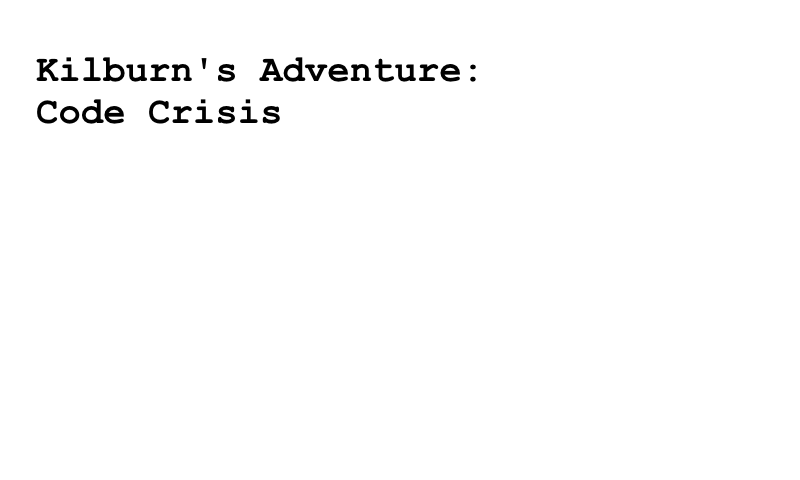
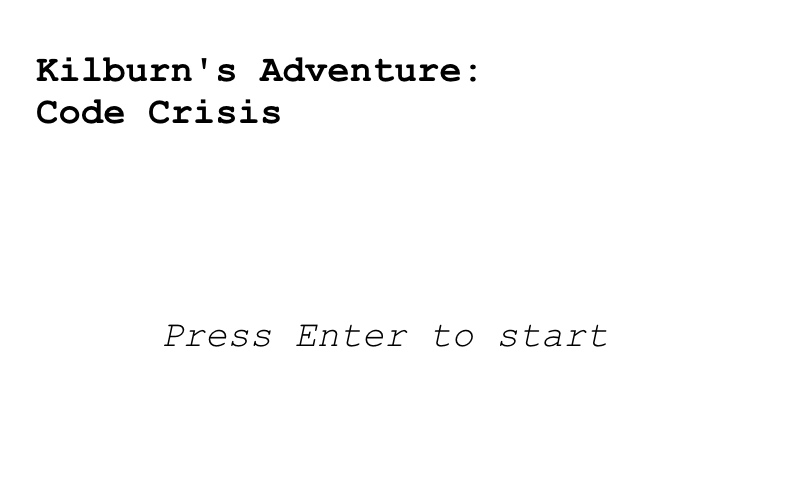
Added statemanager and more gamestate features

diff --git a/core/src/kilburnsadventure/StateManager.java b/core/src/kilburnsadventure/StateManager.java
@@ -1,0 +1,56 @@
+package kilburnsadventure;
+
+import java.util.List;
+import java.util.ArrayList;
+
+import com.badlogic.gdx.graphics.g2d.SpriteBatch;
+
+public class StateManager extends GameObject 
+{
+	private List<GameState> gameStates, toAdd, toRemove;
+	
+	public StateManager(Game game)
+	{
+		super(game);
+		
+		gameStates = new ArrayList<GameState>();
+		toAdd = new ArrayList<GameState>();
+		toRemove = new ArrayList<GameState>();
+	}
+	
+	@Override 
+	public void update()
+	{
+		for (GameState state : gameStates)
+		{
+			if (state.enabled)
+				state.update();
+		}
+		
+		for (GameState state : toAdd)
+			gameStates.add(state);
+		
+		for (GameState state : toRemove)
+			gameStates.remove(state);
+	}
+	
+	@Override
+	public void draw(SpriteBatch spriteBatch)
+	{
+		for (GameState state : gameStates)
+		{
+			if (state.visible)
+				state.draw(spriteBatch);
+		}
+	}
+	
+	public void addState(GameState state)
+	{
+		toAdd.add(state);
+	}
+	
+	public void removeState(GameState state)
+	{
+		toRemove.add(state);
+	}
+}

diff --git a/core/src/kilburnsadventure/Game.java b/core/src/kilburnsadventure/Game.java
@@ -12,8 +12,8 @@ public class Game extends ApplicationAdapter {
 	protected Texture img;
 	
 	protected OrthographicCamera camera;
-	
-	protected GameState currentState;
+
+	protected StateManager stateManager;
 	
 	@Override
 	public void create () 
@@ -23,14 +23,17 @@ public class Game extends ApplicationAdapter {
 		
 		spriteBatch = new SpriteBatch();
 		
-		currentState = new MapState(this);
+		stateManager = new StateManager(this);
+		stateManager.addState(new TitleState(this, stateManager));
+		
 		// Create game objects here
 	}
 	
 	public void update()
 	{
 		camera.update();
-		currentState.update();
+		
+		stateManager.update();
 		
 		// Update code goes here
 	}
@@ -39,11 +42,9 @@ public class Game extends ApplicationAdapter {
 	{
 		spriteBatch.setProjectionMatrix(camera.combined);
 		
-		
-		spriteBatch.begin();
-		
+		spriteBatch.begin();		
 		// Draw code goes here
-		currentState.draw(spriteBatch);
+		stateManager.draw(spriteBatch);
 		
 		spriteBatch.end();
 	}

diff --git a/core/src/kilburnsadventure/TitleState.java b/core/src/kilburnsadventure/TitleState.java
@@ -12,9 +12,9 @@ public class TitleState extends GameState
 	private Vector2 balloonPos;
 	private float balloonDirection = -0.25f;
 	
-	public TitleState(Game game)
+	public TitleState(Game game, StateManager manager)
 	{
-		super(game);
+		super(game, manager);
 		titleImage = new Texture("graphics/titlescreen.png");
 		balloonImage = new Texture("graphics/ballon.png");
 		balloonPos = new Vector2(600, 150);
@@ -33,6 +33,11 @@ public class TitleState extends GameState
 	{
 		if (Gdx.input.isKeyPressed(Input.Keys.ESCAPE))
 			Gdx.app.exit();
+		else if (Gdx.input.isKeyPressed(Input.Keys.ENTER))
+		{
+			stateManager.removeState(this);
+			stateManager.addState(new MapState(gameRef, stateManager, 1));
+		}
 		
 		balloonPos.y += balloonDirection;
 		if (balloonPos.y < 125 || balloonPos.y > 175)

diff --git a/core/src/kilburnsadventure/GameState.java b/core/src/kilburnsadventure/GameState.java
@@ -5,9 +5,13 @@ import com.badlogic.gdx.graphics.g2d.SpriteBatch;
 public class GameState extends GameObject 
 {
 
-	public GameState(Game game)
+	protected StateManager stateManager;
+	
+	public GameState(Game game, StateManager manager)
 	{
 		super(game);
+		
+		stateManager = manager;
 	}
 	
 	@Override
